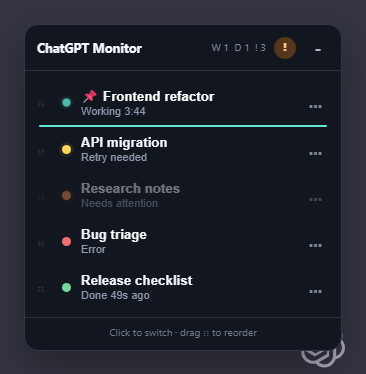
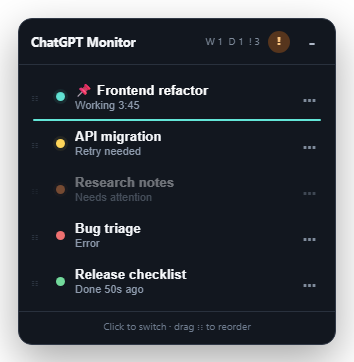
Clean preview captures and add live demos

diff --git a/README.md b/README.md
@@ -43,7 +43,7 @@
   <sub><strong>214 px compact view</strong> — the same information in single-line rows.</sub>
 </p>
 
-### Persistent drag order
+### Persistent chat order
 
 <p align="center">
   <img src="assets/screenshots/drag-order.png" width="410" alt="Chat order drag and drop">
@@ -61,6 +61,32 @@
 
 <p align="center">
   <sub>Sound alerts, compact mode, local chat data, recent activity and shortcuts.</sub>
+</p>
+
+## Live demos
+
+<p align="center">
+  <sub>Captured from the real extension UI using demo chat names and states.</sub>
+</p>
+
+### Floating and draggable
+
+<p align="center">
+  <img src="assets/demos/monitor-drag.gif" width="700" alt="ChatGPT MultiChat Monitor panel being dragged across the screen">
+</p>
+
+<p align="center">
+  <sub>Drag the header to place the monitor anywhere on screen. Its position is saved locally.</sub>
+</p>
+
+### Working → Done
+
+<p align="center">
+  <img src="assets/demos/working-done.gif" width="430" alt="ChatGPT MultiChat Monitor Working state changing to Done">
+</p>
+
+<p align="center">
+  <sub>The cyan <strong>Working</strong> LED pulses while ChatGPT is generating, then switches to green <strong>Done</strong>.</sub>
 </p>
 
 ## What it does

diff --git a/CHANGELOG.md b/CHANGELOG.md
@@ -4,6 +4,8 @@
 
 - Added the final MultiChat Monitor icon set and wired it into the extension manifest/action.
 - Added presentation assets: normal monitor, compact monitor, drag-order and popup screenshots.
+- Re-captured the monitor screenshots with transparent surroundings so no ChatGPT page elements leak into the image and the panel's rounded corners remain visible.
+- Added two real-UI GIF demos: moving the floating panel across the screen and the pulsing Working LED transitioning to unread Done.
 - Added a matching 1280×640 social preview asset.
 - Reworked the README into a visual project landing page with screenshots, feature highlights and a state/color legend.
 - Refined the README preview layout to avoid oversized GitHub table cells and added the same release/apps and support badges used across the other public projects.
